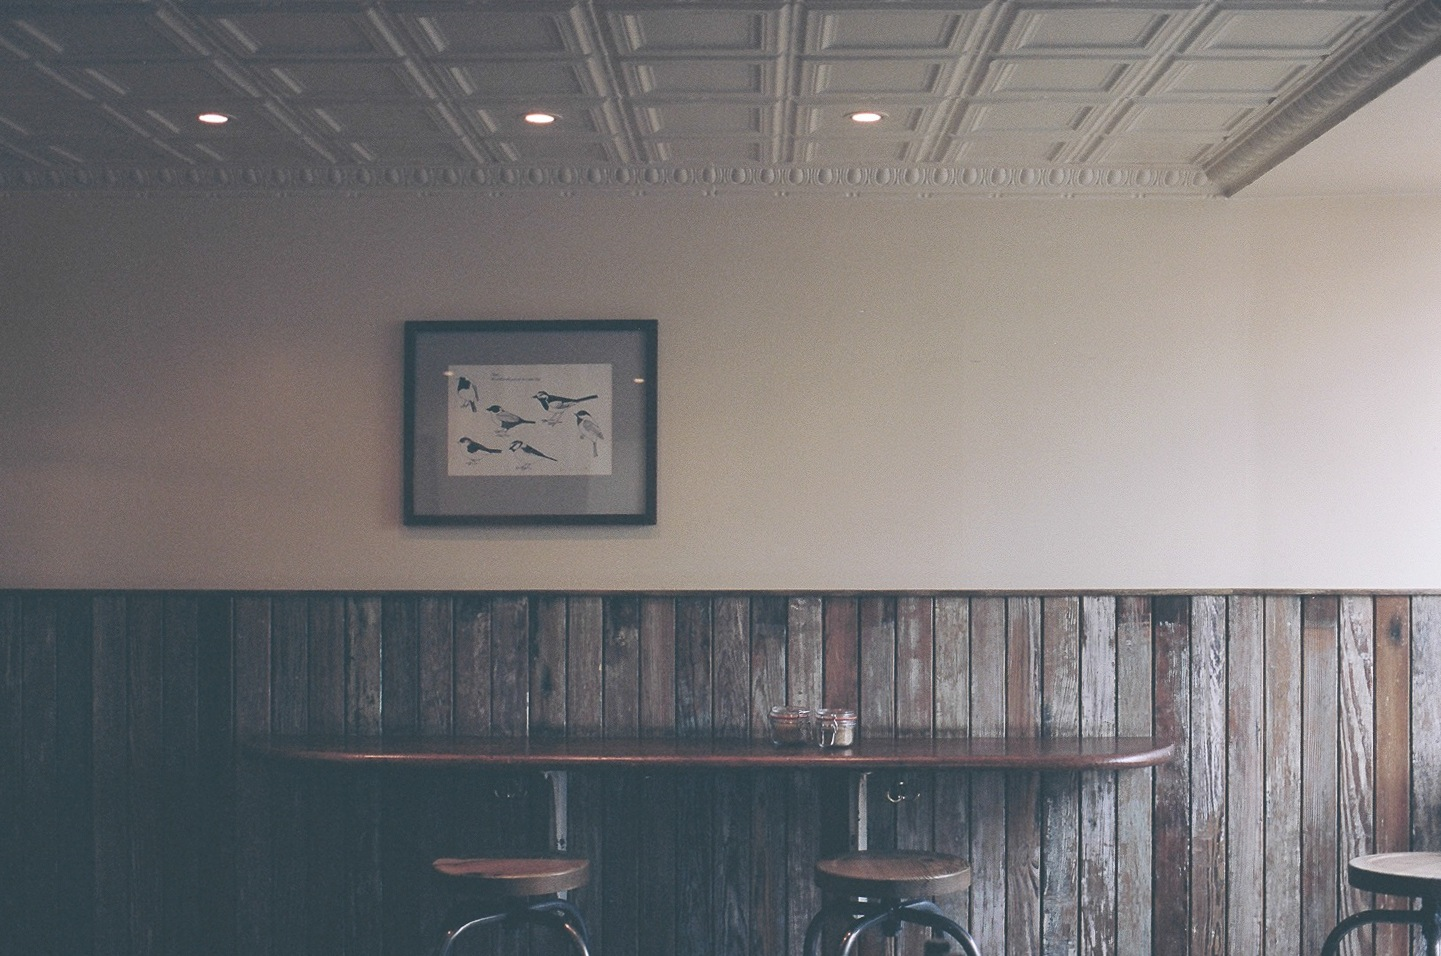
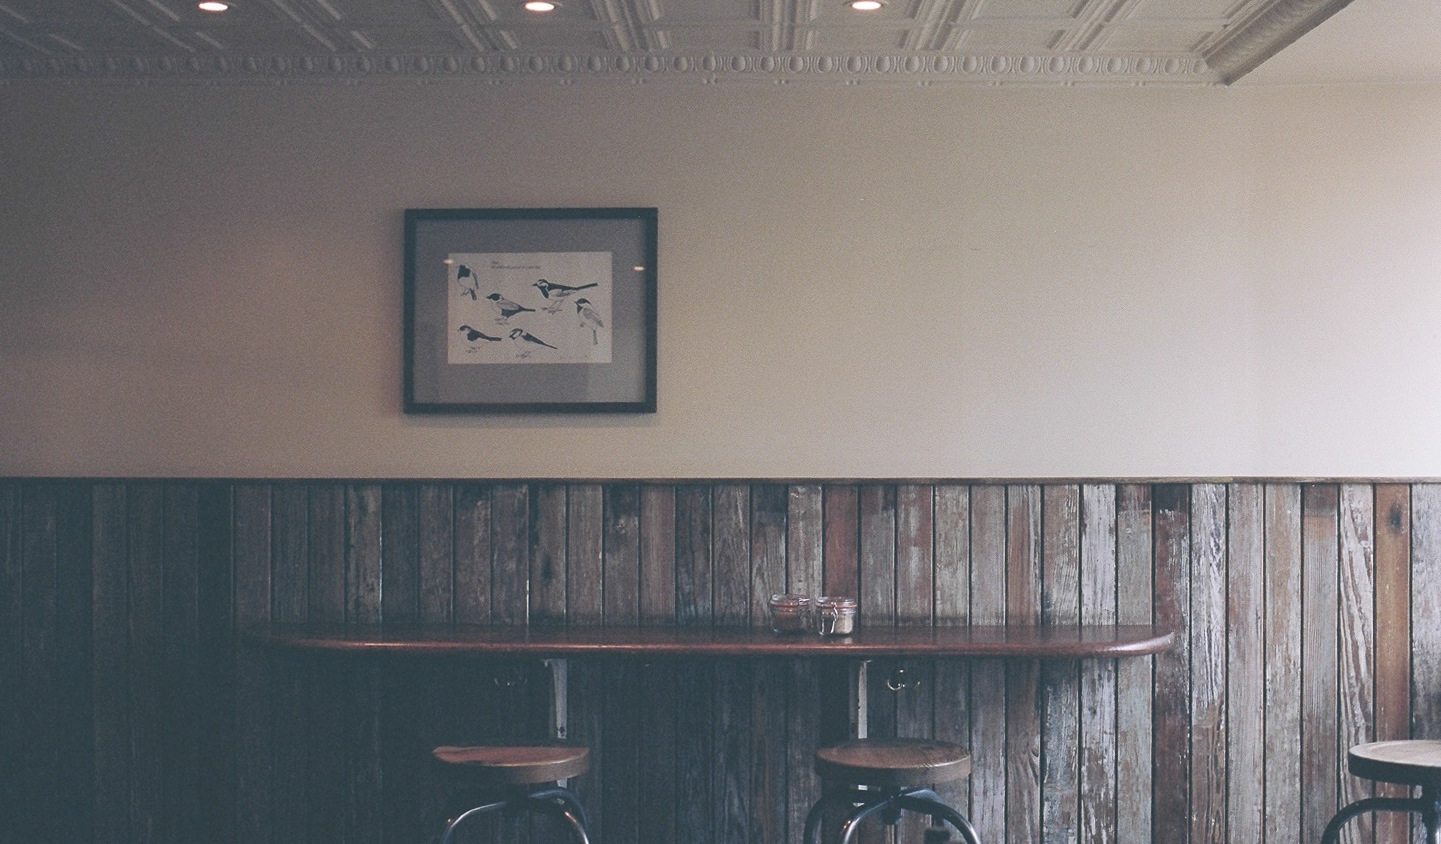
modified carousel images to fit better. added twitter.

diff --git a/index.html b/index.html
@@ -12,24 +12,21 @@ permalink: /
         <li data-target="#myCarousel" data-slide-to="2"></li>
       </ol>
       <div class="carousel-inner" role="listbox">
-        <div class="item active">
-          <img src="assets/images/2.jpeg" alt="First slide">
+        <div class="item active slide1">
           <div class="container">
             <div class="carousel-caption">
               {% include template/carousel_1.html %}
             </div>
           </div>
         </div>
-        <div class="item">
-          <img src="assets/images/1.jpg" alt="Second slide">
+        <div class="item slide2">
           <div class="container">
             <div class="carousel-caption">
               {% include template/carousel_2.html %}
             </div>
           </div>
         </div>
-        <div class="item">
-          <img src="assets/images/AirAmbulance.jpeg" alt="Third slide">
+        <div class="item slide3">
           <div class="container">
             <div class="carousel-caption">
               {% include template/carousel_3.html %}

diff --git a/_sass/_custom.scss b/_sass/_custom.scss
@@ -62,10 +62,25 @@ body {
   background-color: #777;
 }
 
-.item > img{
-    position: relative;
-    top: -175px;
+.carousel-inner .item {
+    width: 100%;
+    height: 300px;
+    -webkit-background-size: cover;
+    -moz-background-size: cover;
+    -o-background-size: cover;
+    background-size: cover;
 }
+
+.slide1 {
+    background: url('../assets/images/2.jpeg') no-repeat center center;
+}
+.slide2 {
+    background: url('../assets/images/1.jpg') no-repeat center center;
+}
+.slide3 {
+    background: url('../assets/images/AirAmbulance.jpeg') no-repeat center center;
+}
+
 
 /* MARKETING CONTENT
 -------------------------------------------------- */
@@ -138,6 +153,9 @@ body {
     font-size: 21px;
     line-height: 1.4;
   }
+    .carousel-inner .item {
+        height: 500px;
+    }
 
   .service-heading {
     font-size: 50px;
@@ -152,4 +170,8 @@ body {
   .service-image {
     margin-top: 60px;
   }
+
+    .carousel-inner .item {
+        height: 500px;
+    }
 }

diff --git a/_includes/template/header.html b/_includes/template/header.html
@@ -17,6 +17,7 @@
             <!-- <li><a href="#about">About</a></li> -->
             <li><a href="#data_extraction">Services</a></li>
             <li><a href="#contact">Contact</a></li>
+            <li><a href="https://twitter.com/DataCureIT" target="_blank"><i class="fa fa-twitter fa-lg"></i></a></li>
           </ul>
       </div>
     </nav>
